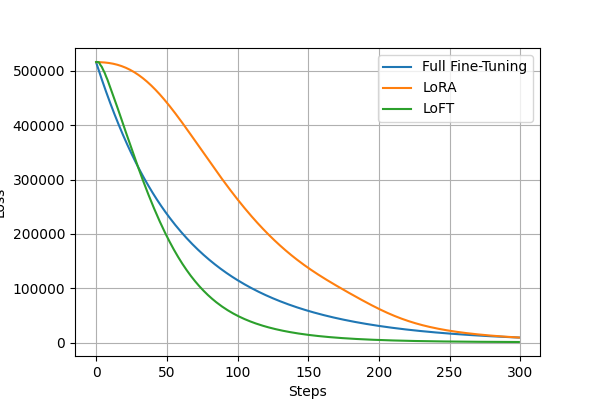
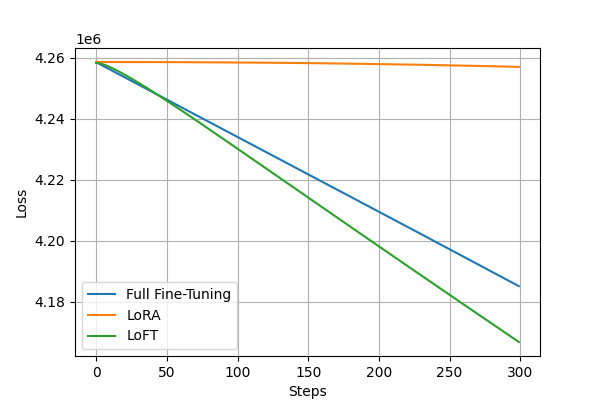
update on implementation

diff --git a/loft-test/simulated_experiment.py b/loft-test/simulated_experiment.py
@@ -4,12 +4,12 @@ from torch.optim import AdamW
 import loralib as lora
 import torch.nn as nn
 import random
-random.seed(0)
+torch.manual_seed(0)
 
 
 m, n, r = 1024, 512, 8
 steps = 300
-lr = 1e-2   # tune this on full FT first
+lr = 1e-4  
 lr_full = lr
 lr_lora = lr
 lr_loft = lr
@@ -35,7 +35,49 @@ class DenseModel(nn.Module):
         return self.linear(x)
 
 A = torch.randn(m, r) @ torch.randn(r, n)
-A = A / math.sqrt(r)
+
+# def generate_hard_rank_r_matrix(
+#     m, n, r,
+#     decay=6.0,        # larger = harder
+#     device=None,
+#     dtype=torch.float32,
+# ):
+#     U, _ = torch.linalg.qr(torch.randn(m, r, device=device, dtype=dtype))
+#     V, _ = torch.linalg.qr(torch.randn(n, r, device=device, dtype=dtype))
+
+#     # exponentially decaying singular values
+#     s = torch.exp(-decay * torch.arange(r, device=device, dtype=dtype) / r)
+#     S = torch.diag(s)
+
+#     A = U @ S @ V.T
+#     return A, s
+
+# m, n, r = 1024, 512, 8
+# A, s = generate_hard_rank_r_matrix(m, n, r)
+
+# def generate_lora_unfriendly_matrix(m, n, r, device=None):
+#     U, _ = torch.linalg.qr(torch.randn(m, r, device=device))
+#     V, _ = torch.linalg.qr(torch.randn(n, r, device=device))
+
+#     # one dominant direction, rest tiny but nonzero
+#     s = torch.tensor([1.0] + [1e-3] * (r - 1), device=device)
+#     A = U @ torch.diag(s) @ V.T
+#     return A, s
+
+# A, s = generate_lora_unfriendly_matrix(1024, 512, 8)
+
+# def generate_lora_unfriendly_matrix(m, n, r, device=None):
+#     U, _ = torch.linalg.qr(torch.randn(m, r, device=device))
+#     V, _ = torch.linalg.qr(torch.randn(n, r, device=device))
+
+#     # one dominant direction, rest tiny but nonzero
+#     s = torch.tensor([1.0] + [1e-3] * (r - 1), device=device)
+#     A = U @ torch.diag(s) @ V.T
+#     return A, s
+
+# A, s = generate_lora_unfriendly_matrix(1024, 512, 8)
+
+
 
 def loss_fn(output):
     return ((output - A) ** 2).sum()
@@ -48,7 +90,6 @@ def run_lora():
     # confirming trainable parameters
     # for name, param in model.named_parameters():
     #     print(f"{name}: {param.requires_grad}")
-            
     for i in range(steps):
         optimizer.zero_grad()
         x = torch.eye(n)
@@ -61,7 +102,7 @@ def run_lora():
     return loss_lora
 
 def run_full_ft():
-    model_full = DenseModel(in_features=n, out_features=m)
+    model_full = SimpleModel(in_features=n, out_features=m, rank=r)
     # make all parameters trainable
     for param in model_full.parameters():
         param.requires_grad = True
@@ -83,12 +124,14 @@ def run_full_ft():
 def run_loft():
     from loft import LoFTLinear, LoFTAdamW
 
-    model_loft = SimpleModel(in_features=n, out_features=m, rank=r)
+    model_loft = DenseModel(in_features=n, out_features=m)
     # replace linear layer with LoFTLinear
-    model_loft.linear = LoFTLinear(nn.Linear(n, m), rank=r)
+    model_loft.linear = LoFTLinear(model_loft.linear, rank=r)
+    
 
     # make only U and V trainable
     for name, param in model_loft.named_parameters():
+        print(name, param)
         if ".U" in name or ".V" in name:
             param.requires_grad = True
         else:
@@ -129,10 +172,18 @@ plt.plot(loss_full, label="Full Fine-Tuning")
 plt.plot(loss_lora, label="LoRA")
 plt.plot(loss_loft, label="LoFT")
 
+# print lists to losses.txt, indicating which is which
+# with open("losses.txt", "w") as f:
+#     f.write("Full Fine-Tuning:\n")
+#     f.write(", ".join([str(x) for x in loss_full]) + "\n")
+#     f.write("LoRA:\n")
+#     f.write(", ".join([str(x) for x in loss_lora]) + "\n")
+#     f.write("LoFT:\n")
+#     f.write(", ".join([str(x) for x in loss_loft]) + "\n")
+
 plt.xlabel("Steps")
 plt.ylabel("Loss")
 plt.legend()
 plt.grid(True)
 # save the figure
 plt.savefig("ft_vs_lora.png")
-plt.show()

diff --git a/loft-test/loft/optim copy.py b/loft-test/loft/optim copy.py
@@ -47,7 +47,7 @@ class LoFTAdamW(Optimizer):
                 m = U.shape[0]
                 r = U.shape[1]
                 state["step"] = 0
-                state["update_U"] = False
+                state["update_U"] = True
                 n = V.shape[0]
                 # First moments
                 state["mU"] = torch.zeros_like(U)
@@ -72,12 +72,12 @@ class LoFTAdamW(Optimizer):
             projection_U_k = U.T @ U # (U_k^T U_k) shape (r, r)
             projection_V_k = V.T @ V # (V_k^T V_k) shape (r, r)
             
-            projection_U_k_inv = torch.linalg.pinv(projection_U_k) # shape (r, r)
-            projection_V_k_inv = torch.linalg.pinv(projection_V_k) # shape (r, r)
+            projection_U_k_inv = safe_pinv_gram(projection_U_k) # shape (r, r)
+            projection_V_k_inv = safe_pinv_gram(projection_V_k) # shape (r, r)
 
             # Calibration matrices (PLACEHOLDERS)
-            C_k_V  = (state["V_k_1"].T @ V) @ (torch.linalg.pinv(projection_V_k)) # shape (r, r)
-            C_k_U  = (state["U_k_1"].T @ U) @ (torch.linalg.pinv(projection_U_k)) # shape (r, r)
+            C_k_V  = (state["V_k_1"].T @ V) @ (safe_pinv_gram(projection_V_k)) # shape (r, r)
+            C_k_U  = (state["U_k_1"].T @ U) @ (safe_pinv_gram(projection_U_k)) # shape (r, r)
             
             # gradient projection
             gU_tilde = gU @ projection_V_k_inv # shape (m, r)

diff --git a/loft-test/loft/layers.py b/loft-test/loft/layers.py
@@ -14,22 +14,29 @@ class LoFTLinear(nn.Module):
         self.out_features = linear.out_features
 
         self.W0 = nn.Parameter(linear.weight.data.clone(), requires_grad=False)
+        # same initialization values as Lore
         self.U = nn.Parameter(torch.zeros((self.out_features, rank)))
         self.V = nn.Parameter(torch.zeros((self.in_features, rank)))
-        nn.init.kaiming_uniform_(self.U, a=math.sqrt(5))
-        nn.init.zeros_(self.V)
+        nn.init.zeros_(self.U)
+        nn.init.kaiming_uniform_(self.V, a=math.sqrt(5))
+        
+        # nn.init.kaiming_uniform_(self.U, a=math.sqrt(5))
+        # nn.init.zeros_(self.V)
+
 
         # freeze W0
         self.W0.requires_grad = False
         
         if linear.bias is not None:
-            self.bias = nn.Parameter(linear.bias.data.clone())
+            self.bias = nn.Parameter(linear.bias.data.clone(), requires_grad=False)
         else:
             self.bias = None
 
     def forward(self, x):
-        W = self.W0 + self.U @ self.V.T
-        out = x @ W.T
+        # W = self.W0 + self.U @ self.V.T
+        # out = x @ W.T
+        delta = (self.U @ self.V.T) # * self.scaling
+        out = x @ (self.W0 + delta).T
         if self.bias is not None:
             out = out + self.bias
         return out

diff --git a/loft-test/loft/utils.py b/loft-test/loft/utils.py
@@ -1,15 +1,15 @@
 import torch
 
+def rowwise_khatri_rao(A, B):
+    KR = A.unsqueeze(2) * B.unsqueeze(1)
+    return KR.reshape(A.shape[0], -1)
+
 def loft_pinv_gram(V, eps=1e-6):
     r = V.shape[1]
     return torch.linalg.inv(
         V.T @ V + eps * torch.eye(r, device=V.device, dtype=V.dtype)
     )
-
-def rowwise_khatri_rao(A, B):
-    KR = A.unsqueeze(2) * B.unsqueeze(1)
-    return KR.reshape(A.shape[0], -1)
-
+    
 def safe_pinv_gram(G, eps=1e-6):
     r = G.shape[0]
     return torch.linalg.inv(G + eps * torch.eye(r, device=G.device, dtype=G.dtype))

diff --git a/loft-test/loft_test.py b/loft-test/loft_test.py
@@ -212,7 +212,7 @@ def loss_fn(output):
     return ((output - A) ** 2).sum()
 
 def run_loft():
-    from loft import LoFTLinear, LoFTAdamW
+    from loft_back import LoFTLinear, LoFTAdamW
 
     model_loft = SimpleModel(in_features=n, out_features=m, rank=r)
     # replace linear layer with LoFTLinear
